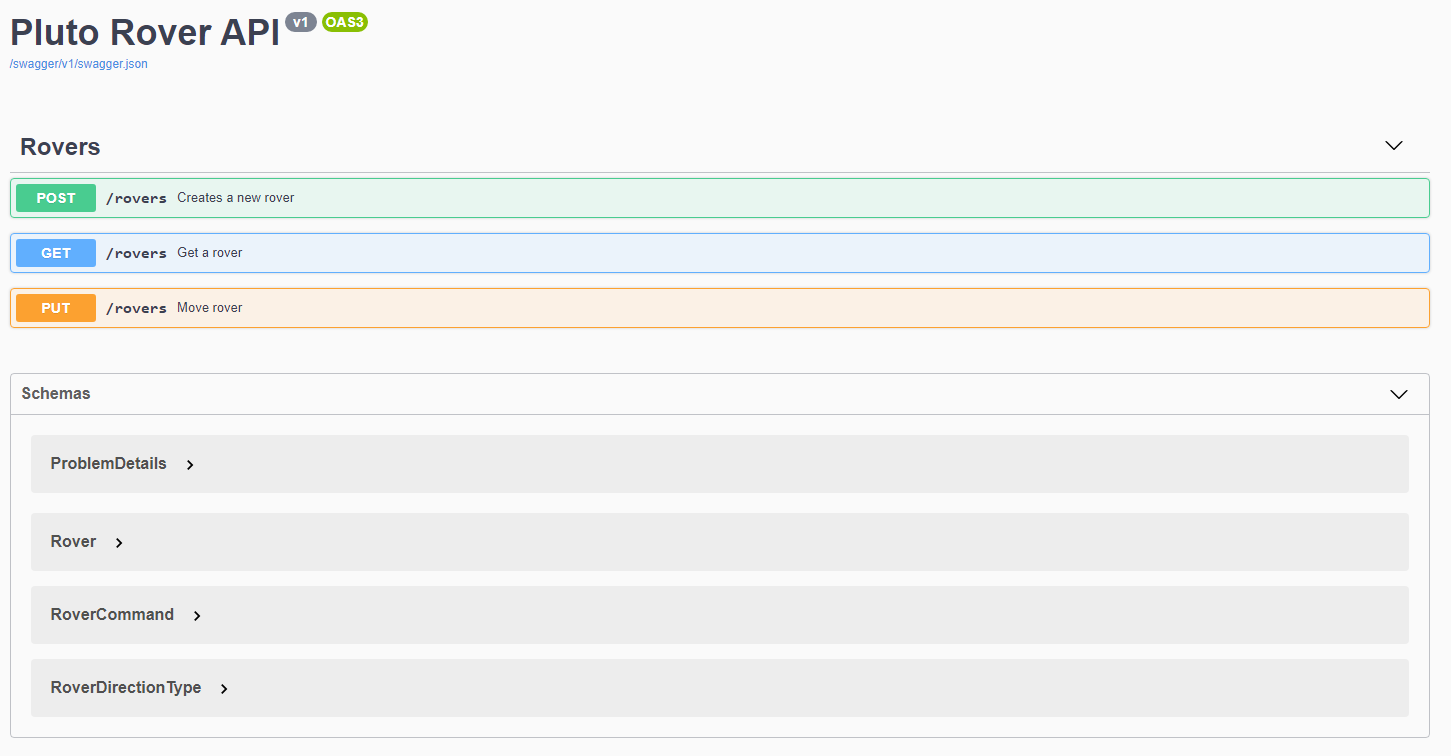
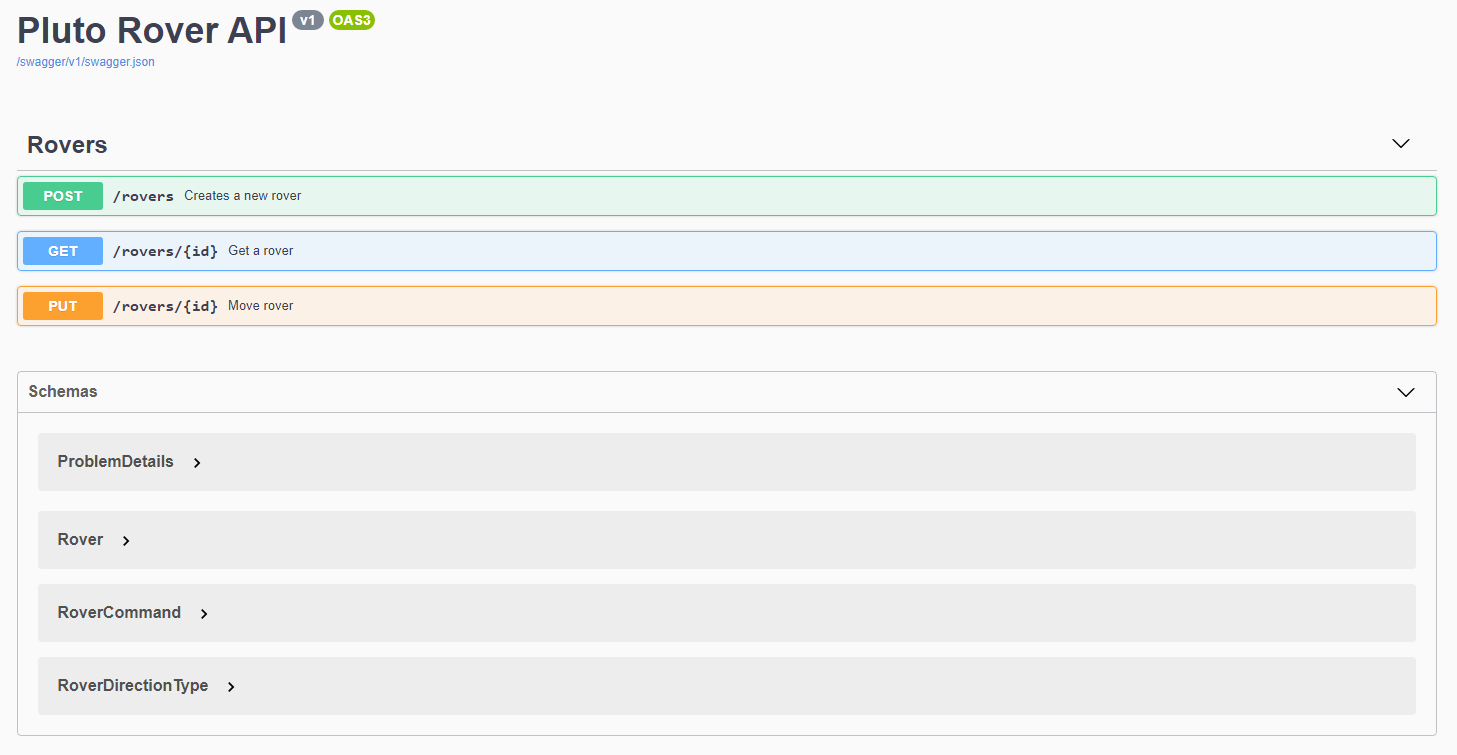
fix: fixed controller params declaration

diff --git a/src/Presentation/Controllers/RoversController.cs b/src/Presentation/Controllers/RoversController.cs
@@ -50,6 +50,7 @@ namespace PlutoRover.ClimbingApi.Presentation.Api.Controllers
         /// </summary>
         /// <param name="id">Universal identifier of the rover.</param>
         [HttpGet]
+        [Route("{id}")]
         [Produces("application/json")]
         [ProducesResponseType(StatusCodes.Status200OK, Type = typeof(Rover))]
         [ProducesResponseType(StatusCodes.Status400BadRequest)]
@@ -71,6 +72,7 @@ namespace PlutoRover.ClimbingApi.Presentation.Api.Controllers
         /// <param name="id">Universal identifier of the rover.</param>
         /// <param name="command">Instruction to move the rover.</param>
         [HttpPut]
+        [Route("{id}")]
         [Produces("application/json")]
         [ProducesResponseType(StatusCodes.Status204NoContent, Type = typeof(Rover))]
         [ProducesResponseType(StatusCodes.Status400BadRequest)]
